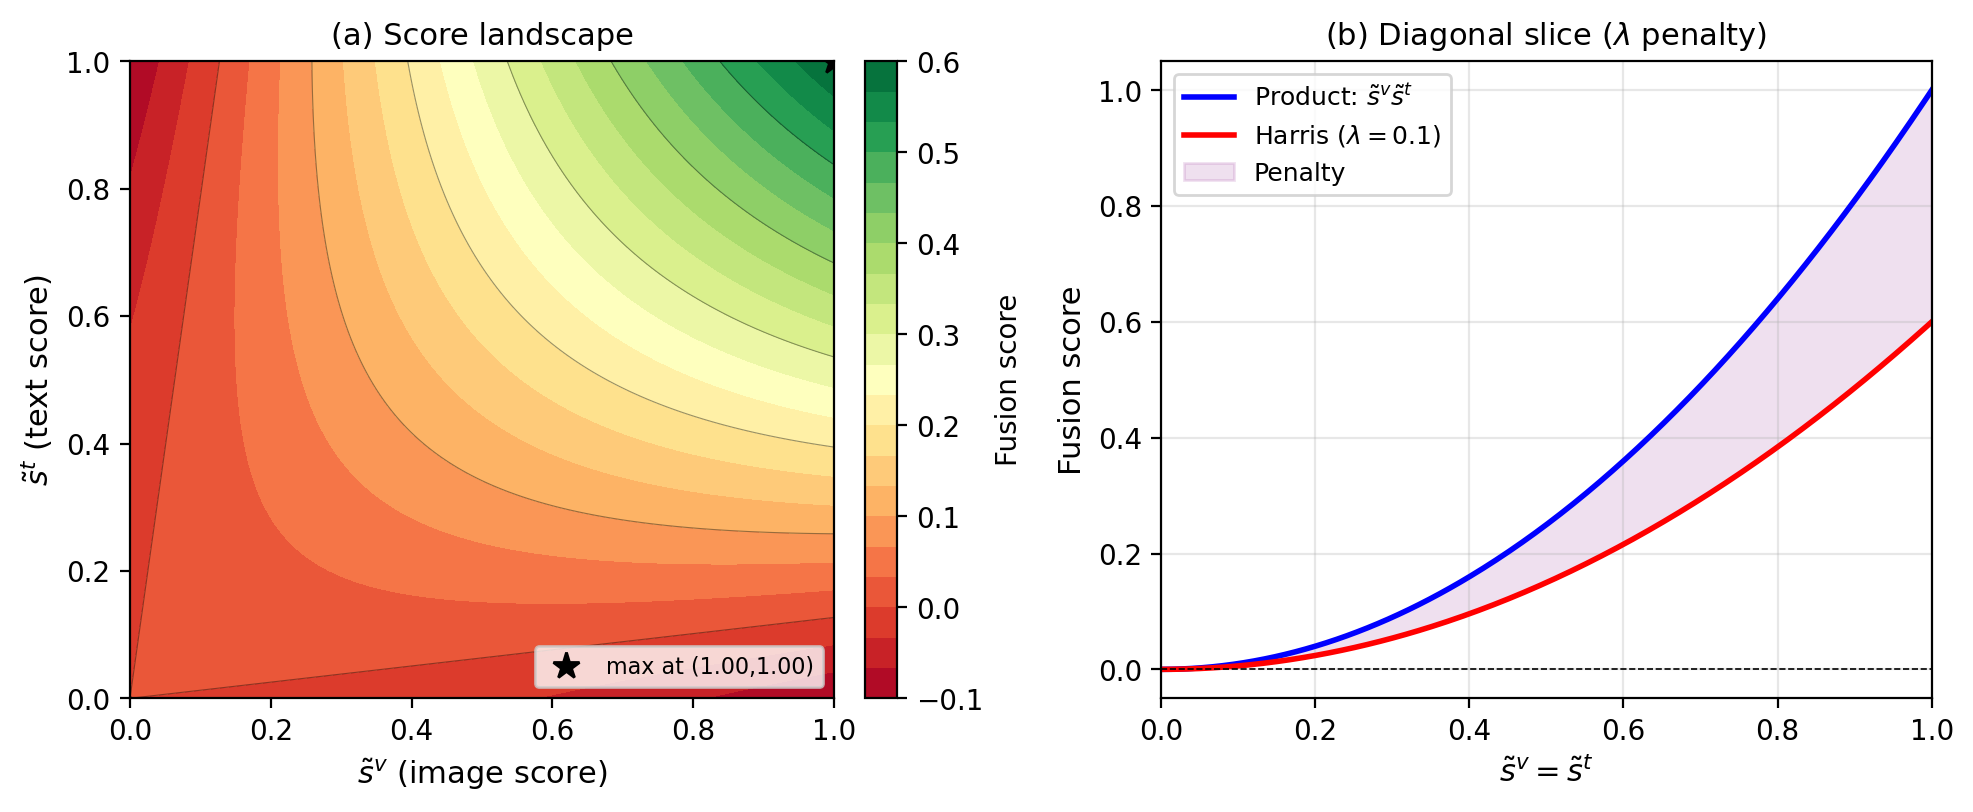
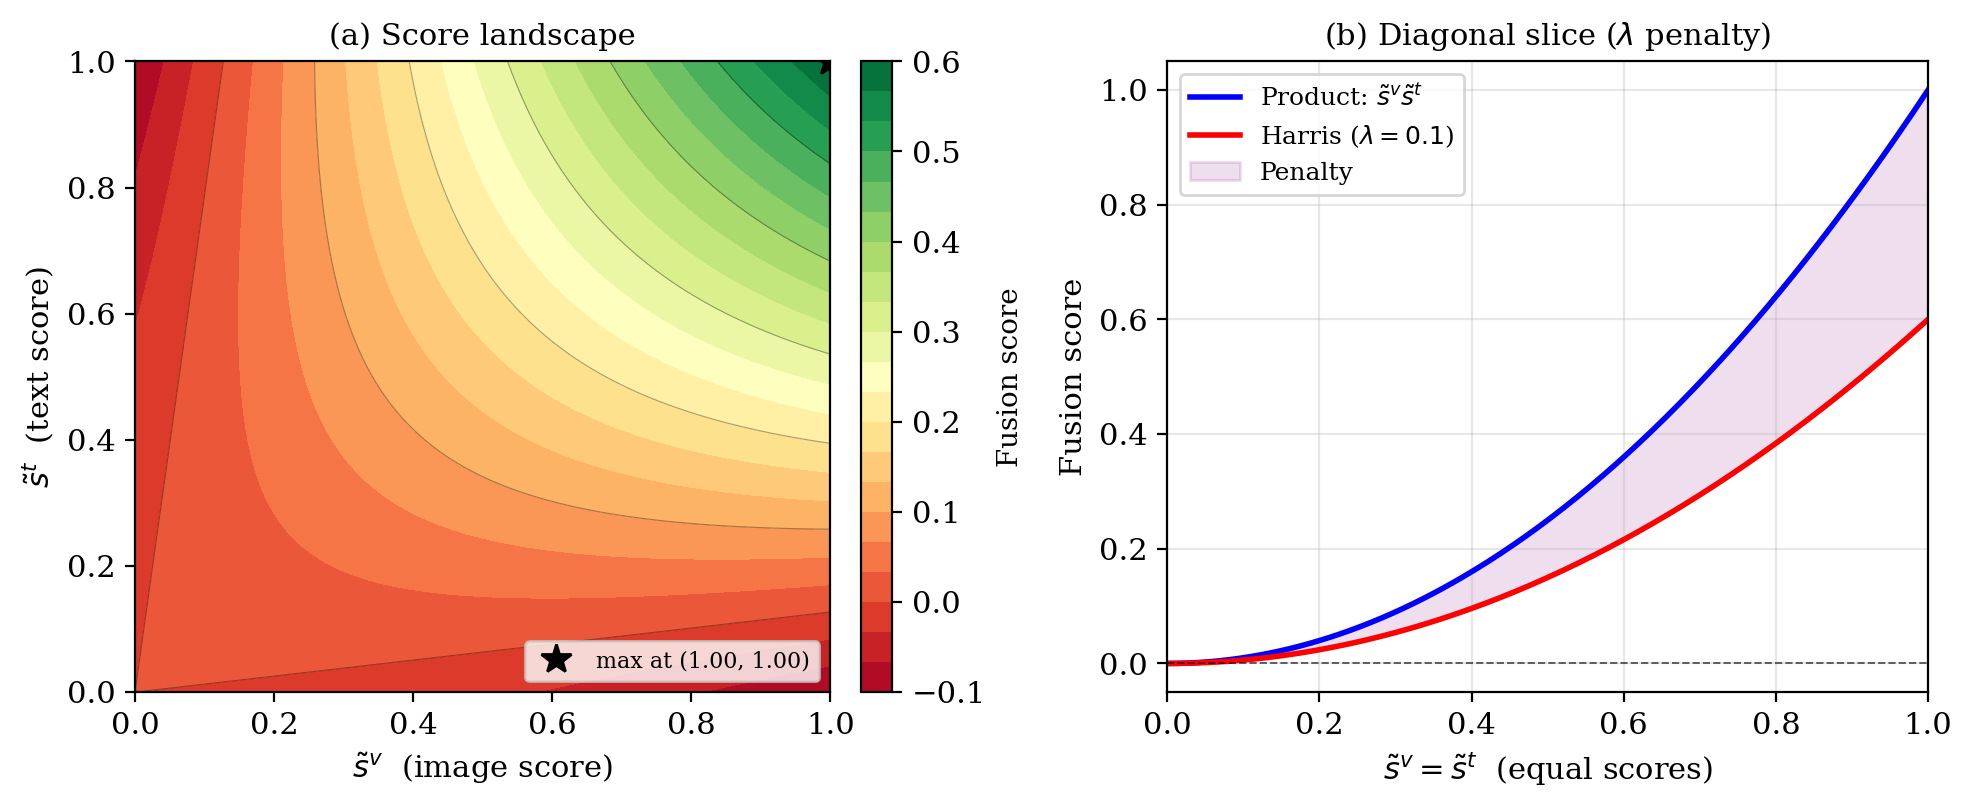
Fill ablation table with exact paper + reproduced numbers; update prose
- Replace \approx placeholders with two-column table (Paper vs Reproduced)
- Rewrite ablation paragraph with real mAP values and QE finding
- Refresh harris_surface and icir_query_example figures

diff --git a/chapters/related_work.tex b/chapters/related_work.tex
@@ -297,41 +297,44 @@ experiments.
 
 \subsection{Ablation of Components}\label{sect:rel_basic_ablation}
 
-% TODO-TABLE: replace $\approx$ values with exact numbers from the i-CIR paper
 \begin{table}[htbp]
   \centering
   \caption{%
     Step-by-step ablation of \textsc{Basic} on i-CIR with CLIP
     ViT-L/14 (mean average precision, \%).
-    Values are approximate; verify against the official ablation in
-    Psomas~et~al.~\cite{psomas2025icir}.%
+    \emph{Paper}: numbers reported by Psomas~et~al.~\cite{psomas2025icir};
+    \emph{Reproduced}: our re-run of the released code.%
   }
   \label{tab:basic_ablation}
-  \begin{tabular}{lc}
+  \begin{tabular}{lcc}
     \toprule
-    Configuration & mAP (\%) \\
+    Configuration & Paper (\%) & Reproduced (\%) \\
     \midrule
-    Image$\times$Text product (baseline)     & $\approx$18 \\
-    $+$~Centering                            & $\approx$28 \\
-    $+$~Score normalisation                  & $\approx$28 \\
-    $+$~Harris criterion                     & $\approx$28 \\
-    $+$~Text contextualization               & $\approx$32 \\
-    $+$~Semantic projection                  & $\approx$32 \\
-    $+$~Query expansion (full \textsc{Basic}) & $\approx$32 \\
+    Image$\times$Text product (baseline)     & 17.48 & 17.95 \\
+    $+$~Centering                            & 28.33 & 27.76 \\
+    $+$~Score normalisation                  & 27.30 & 27.40 \\
+    $+$~Harris criterion                     & 28.42 & 28.33 \\
+    $+$~Text contextualization               & 33.48 & 32.25 \\
+    $+$~Semantic projection                  & 34.35 & 32.48 \\
+    $+$~Query expansion (full \textsc{Basic}) & 31.64 & 30.28 \\
     \bottomrule
   \end{tabular}
 \end{table}
 
 Psomas~et~al.\ quantify the contribution of each step via an ablation that
 progressively adds components to a simple text$\times$image product baseline.
-Starting from the clamped product of raw cosine similarities (mAP
-$\approx$18\,\% on i-CIR with CLIP ViT-L/14), centering alone raises
-performance by nearly 10 points. Adding normalization and the Harris criterion
-reaches $\approx$28\,\%; text contextualization then provides the single
-largest jump, pushing mAP to $\approx$32\,\%, confirming that aligning terse
-modification texts with CLIP's training distribution is the most impactful
-step. Semantic projection adds modest further gains; query expansion
-marginally improves recall at the cost of some precision.
+Starting from the clamped product of raw cosine similarities
+(mAP\,=\,17.48\,\% on i-CIR with CLIP ViT-L/14), centering alone raises
+performance by nearly 11 points (to 28.33\,\%). Score normalisation and the
+Harris criterion keep the score around 28\,\%; text contextualization then
+provides the single largest jump, pushing mAP to 33.48\,\%, confirming that
+aligning terse modification texts with CLIP's training distribution is the
+most impactful step. Semantic projection adds a further 0.87 points (to the
+paper's best of 34.35\,\%); interestingly, adding query expansion slightly
+reduces performance on this benchmark (to 31.64\,\%), suggesting that the
+expanded neighbours introduce more noise than signal at the instance level.
+Our reproduction closely tracks these numbers, with differences of at most
+1\,\% attributable to minor implementation details.
 
 The ablation reveals a clear hierarchy of importance:
 text contextualization $\gg$ centering $>$ Harris normalisation